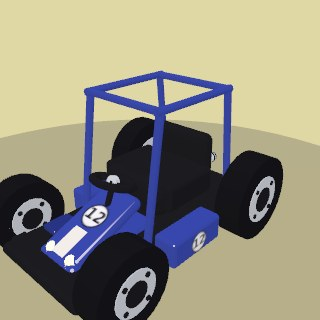
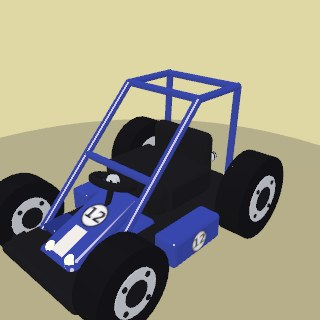
Reshape the roll cage: triangular profile raking down to the nose
Per the second inspo photo, the cage is no longer a box: long diagonal
tubes rake from the nose all the way up to a SHORT roof that only covers
the driver, near-vertical hoops behind the seat, and a mid-brace tying
the diagonals together — the classic off-road buggy triangle.

Claude-Session: https://claude.ai/code/session_017fyz1DfGtQ1NoLSq3UX5Bd

diff --git a/src/models.js b/src/models.js
@@ -1479,24 +1479,29 @@ export function createKartModel(bodyColor = 0xe53935, opts = {}) {
       const intake = add(new THREE.Mesh(rbox(0.42, 0.32, 0.46, 0.1), accent));
       intake.position.set(-0.45, 1.05, -1.85);
       if (st.cage) {
-        // Full off-road roll cage in body paint: four uprights up to a flat
-        // roof frame, tall enough to clear the driver's ears.
+        // Off-road roll cage in body paint, TRIANGULAR in profile like the
+        // real thing: long tubes rake all the way down to the nose, and the
+        // short roof only covers the driver — not a box.
         const tube = (len) => new THREE.CylinderGeometry(0.07, 0.07, len, 8);
         for (const sx of [-1, 1]) {
-          const front = add(new THREE.Mesh(tube(2.3), paint));
-          front.position.set(sx * 0.82, 1.62, 0.42);
-          front.rotation.x = -0.14; // top leans back
-          const rear = add(new THREE.Mesh(tube(2.3), paint));
-          rear.position.set(sx * 0.82, 1.6, -1.6);
-          rear.rotation.x = 0.1; // top leans forward
-          const rail = add(new THREE.Mesh(tube(1.9), paint));
+          // Long front diagonals: nose (y 0.55, z 1.5) → roof front (y 2.72, z -0.62).
+          const diag = add(new THREE.Mesh(tube(3.05), paint));
+          diag.position.set(sx * 0.82, 1.63, 0.44);
+          diag.rotation.x = -0.775;
+          // Near-vertical hoops behind the seat.
+          const rear = add(new THREE.Mesh(tube(2.25), paint));
+          rear.position.set(sx * 0.82, 1.61, -1.74);
+          rear.rotation.x = -0.055; // a whisper of backward lean
+          // Short roof rails over the seat only.
+          const rail = add(new THREE.Mesh(tube(1.2), paint));
           rail.rotation.x = Math.PI / 2;
-          rail.position.set(sx * 0.82, 2.76, -0.6);
+          rail.position.set(sx * 0.82, 2.73, -1.21);
         }
-        for (const cz of [0.28, -1.48]) {
+        // Roof crossbars + a mid-brace tying the diagonals together.
+        for (const [cy, cz] of [[2.73, -0.66], [2.73, -1.76], [1.63, 0.44]]) {
           const cross = add(new THREE.Mesh(tube(1.68), paint));
           cross.rotation.z = Math.PI / 2;
-          cross.position.set(0, 2.76, cz);
+          cross.position.set(0, cy, cz);
         }
       }
     }
